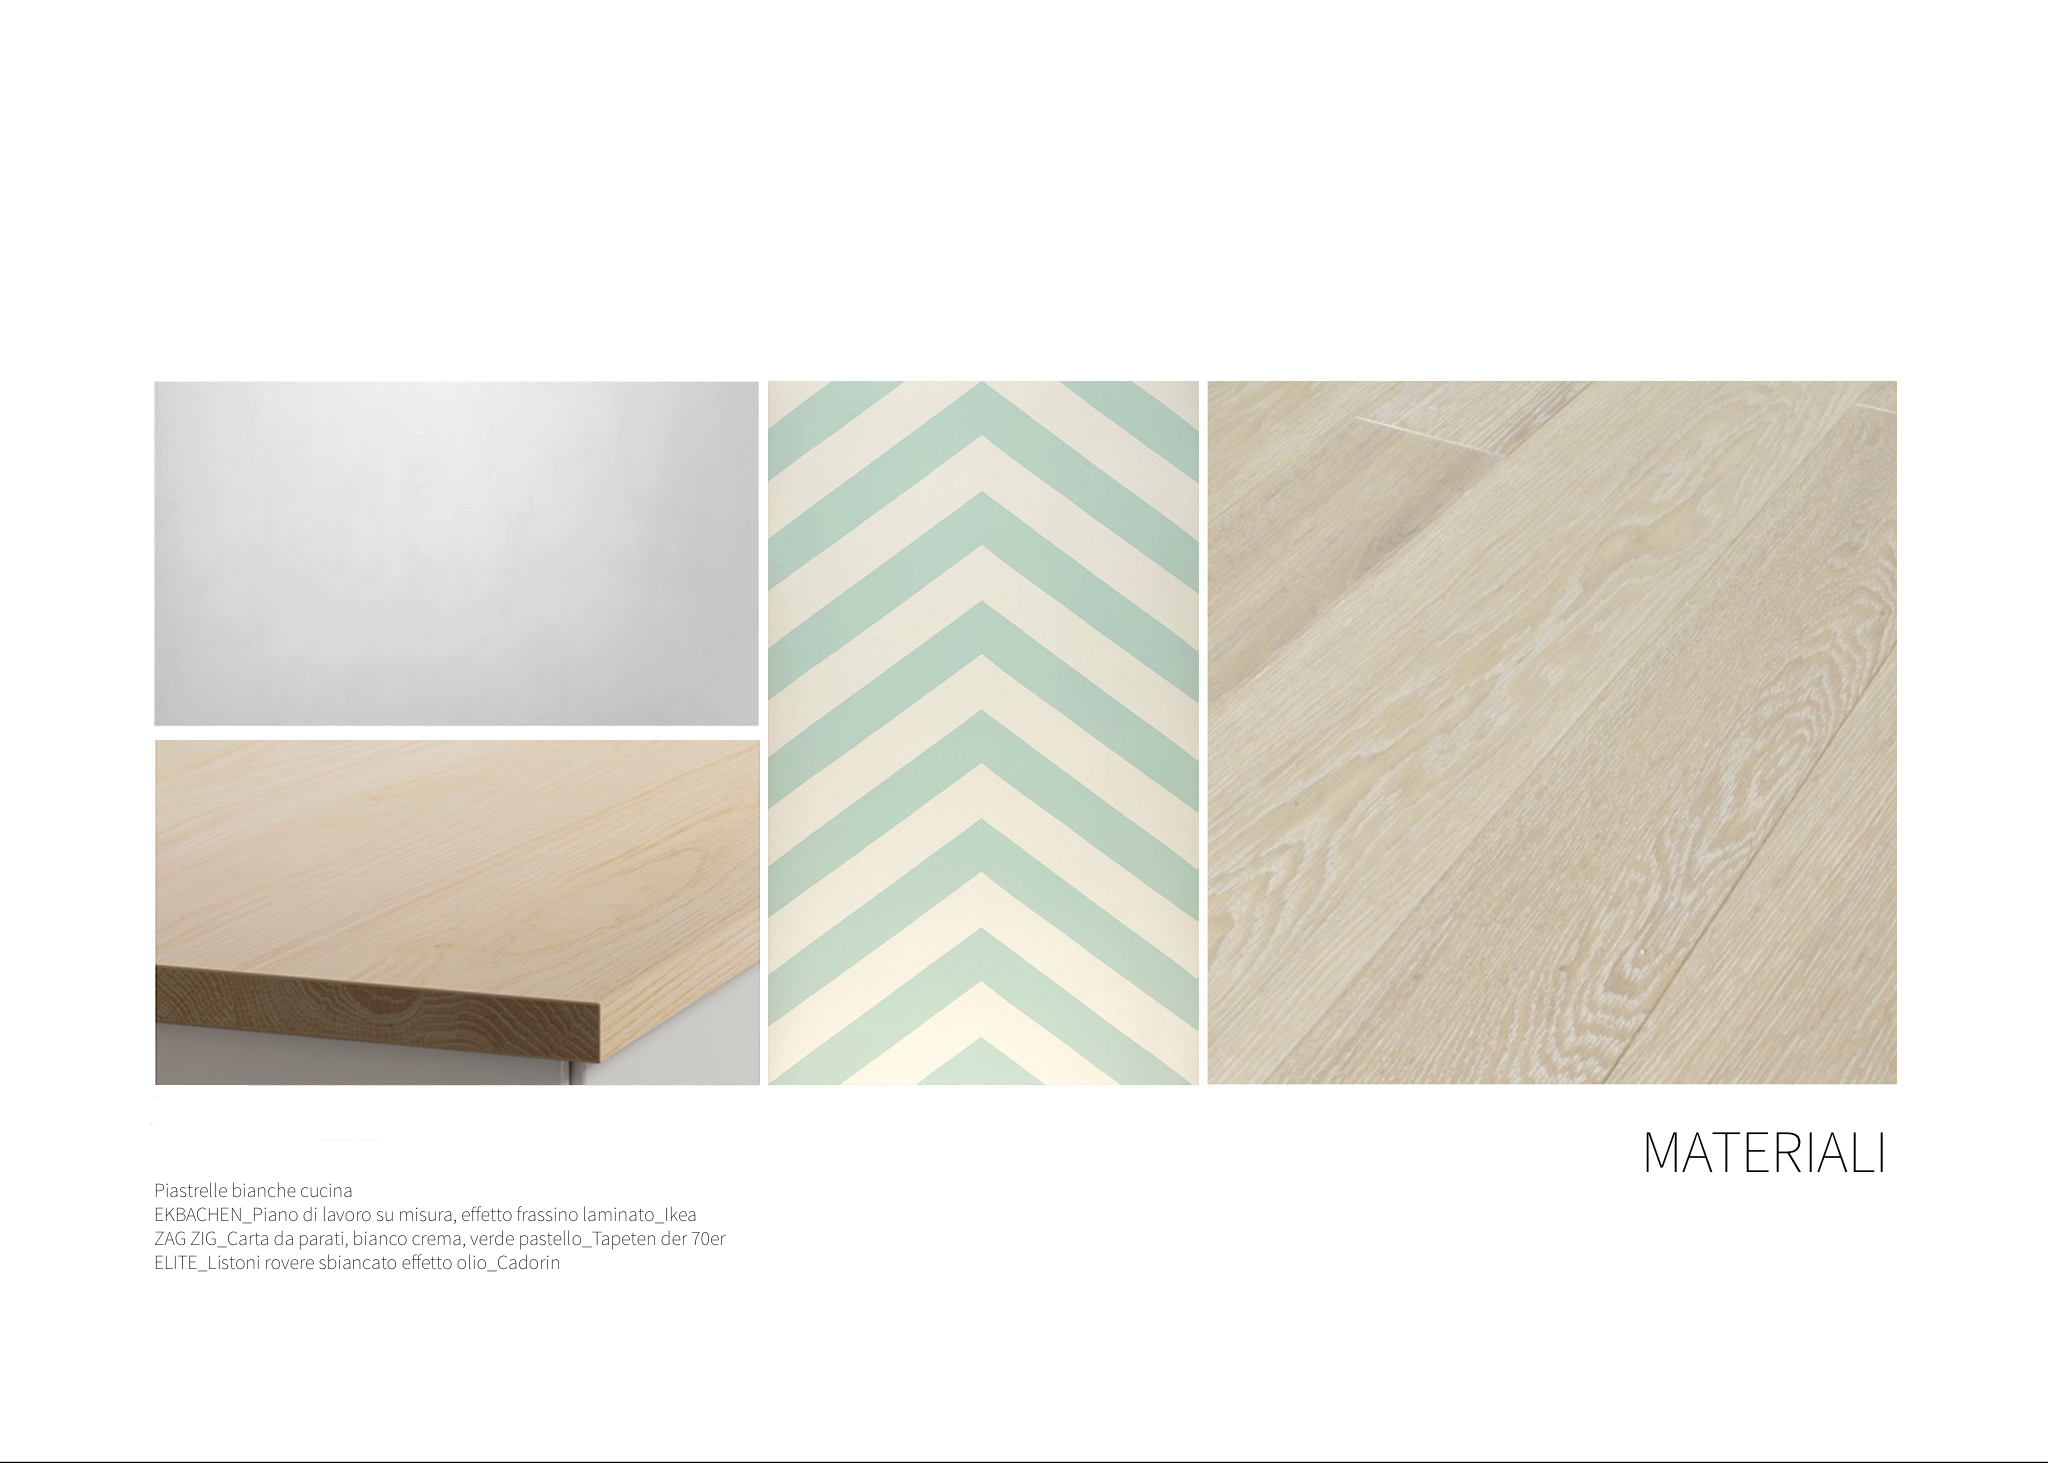
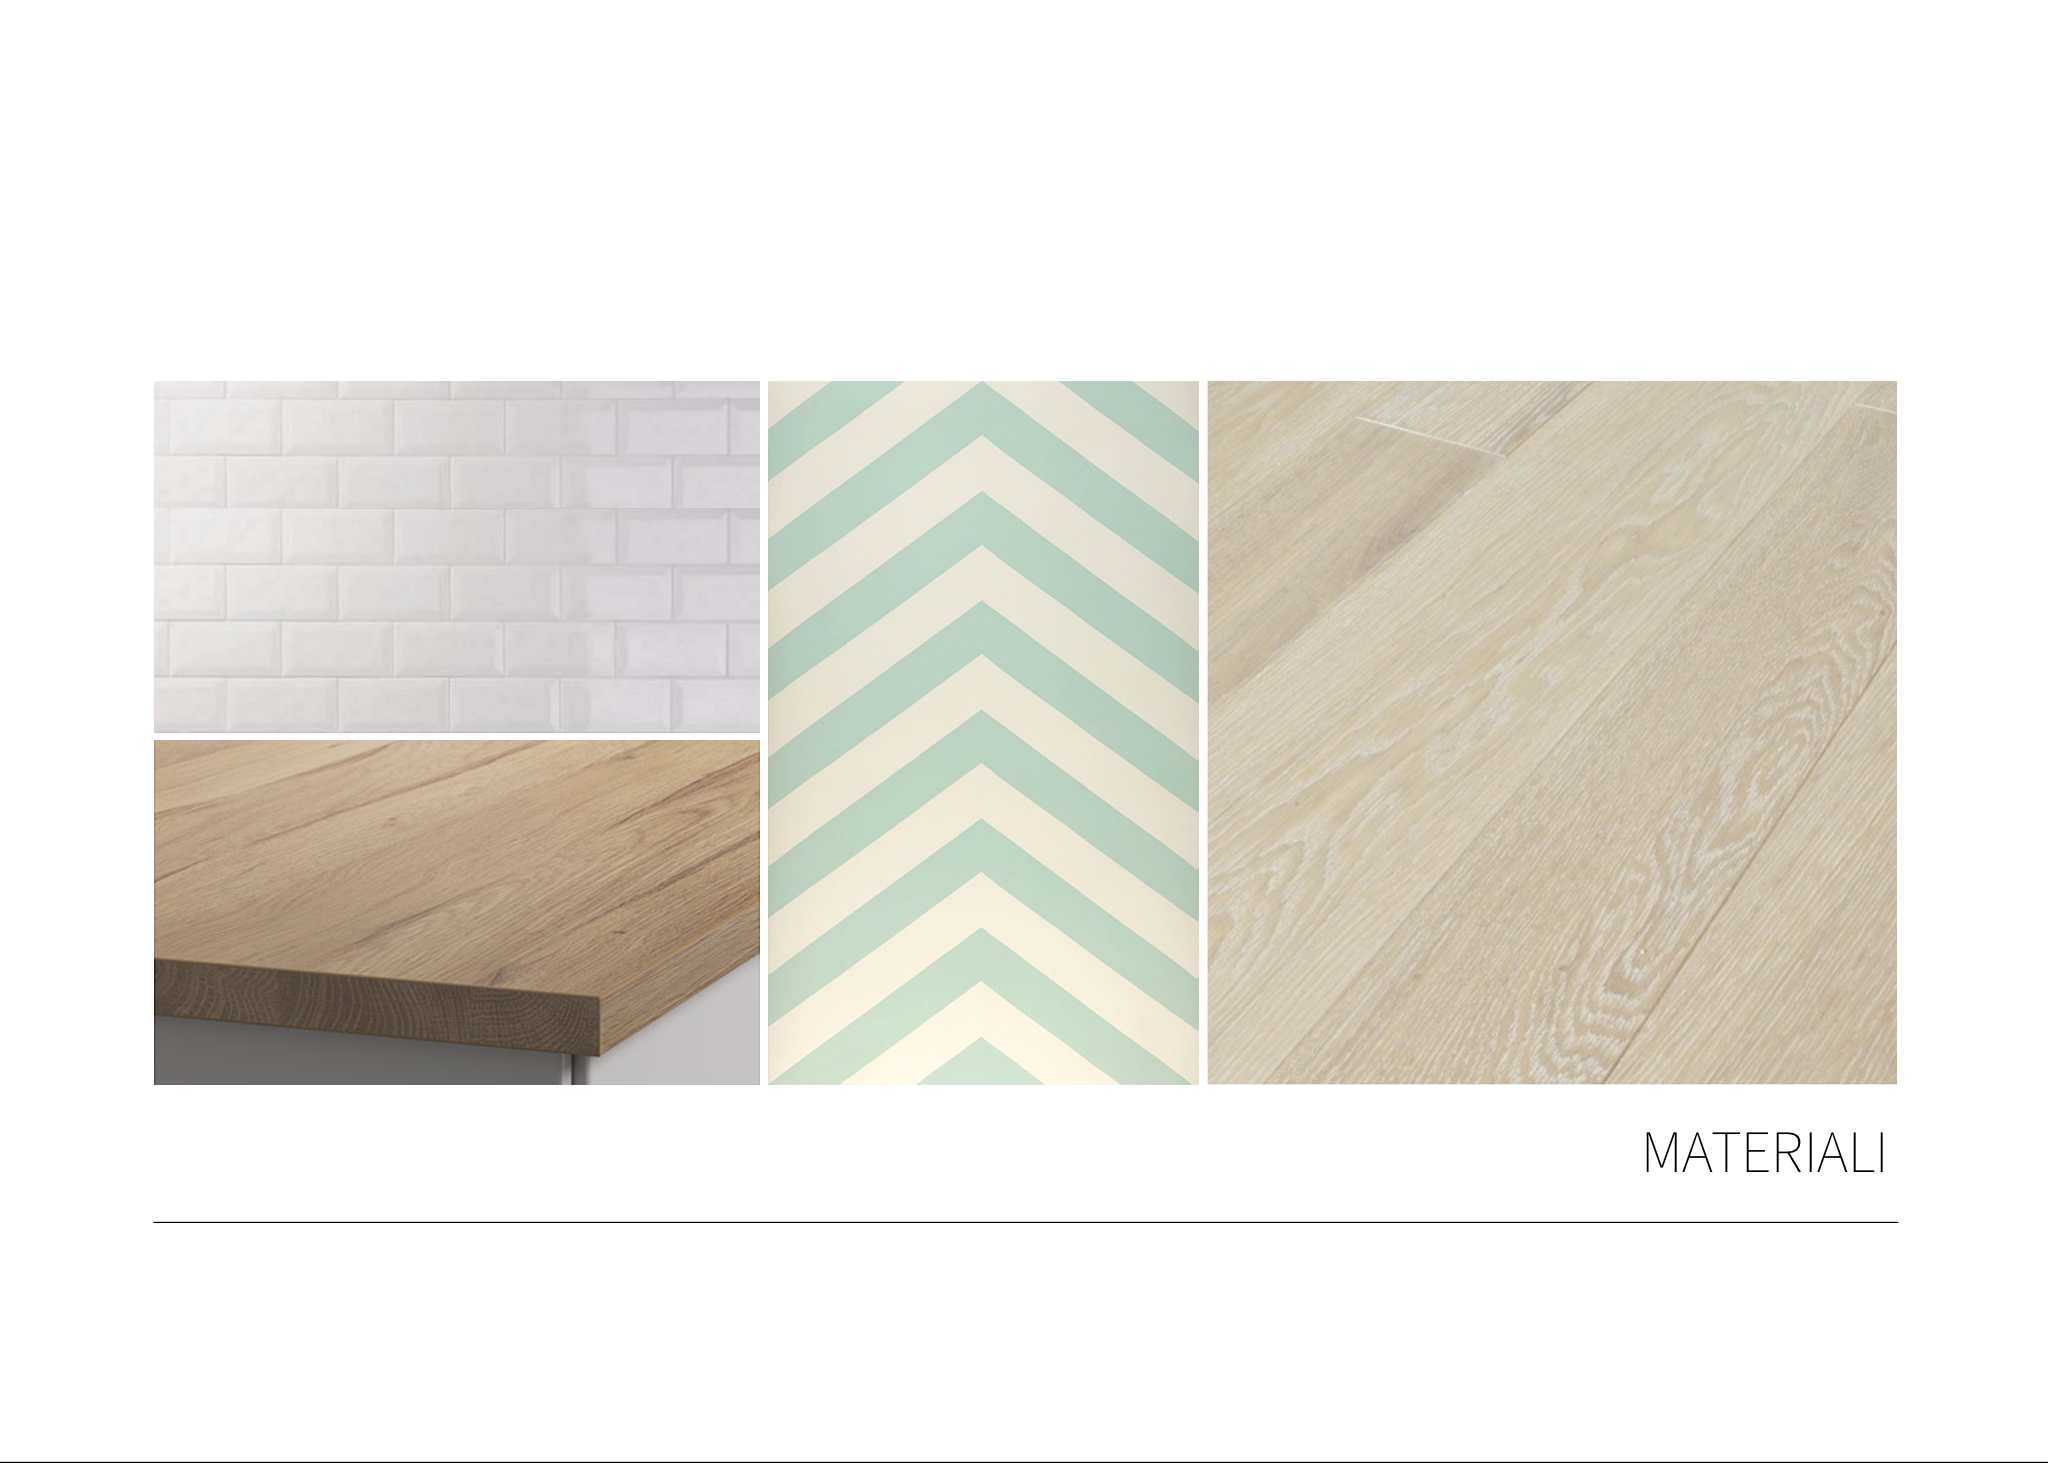
Add material png

Changed region(s): [[0.0625, 0.3383, 0.375, 0.769], [0.0625, 0.7997, 0.3438, 0.8612], [0.1875, 0.2461, 0.2812, 0.3691]]

diff --git a/projects/QM-S_1/QM-S_1_CUCINA/QM-S_1_CUCINA.html b/projects/QM-S_1/QM-S_1_CUCINA/QM-S_1_CUCINA.html
@@ -12,15 +12,15 @@
       <h2>Ambiente Cucina</h2>
       <h3>Lorem ipsum dolor sit amet, consectetuer adipiscing elit. Aenean commodo ligula eget dolor. Aenean massa. Cum sociis natoque penatibus et magnis dis parturient montes, nascetur ridiculus mus. Donec quam felis, ultricies nec, pellentesque eu, pretium quis, sem. Nulla consequat massa quis enim. Donec pede justo, fringilla vel, aliquet nec, vulputate eget, arcu. In enim justo, rhoncus ut, imperdiet a, venenatis vitae, justo. Nullam dictum felis eu pede mollis pretium. Integer tincidunt. Cras dapibus. Vivamus elementum semper nisi. Aenean vulputate eleifend tellus. Aenean leo ligula, porttitor eu, consequat vitae, eleifend ac, enim. Aliquam lorem ante, dapibus in, viverra quis, feugiat a, tellus. Phasellus viverra nulla ut metus varius laoreet. Quisque rutrum. Aenean imperdiet. Etiam ultricies nisi vel augue. Curabitur ullamcorper ultricies nisi. Nam eget dui. Etiam rhoncus. Maecenas tempus, tellus eget condimentum rhoncus, sem quam semper libero, sit amet adipiscing sem neque sed ipsum. Maecenas nec odio et ante tincidunt tempus.
 
-        <a href="img/MATERIALI.png"><img src="img/MATERIALI.png" alt="Prove texture, links to larger version of the image"></a>
+        <a href="img/MATERIALI.png"><img src="img/MATERIALI16_9.png" alt="MATERIALI"></a>
 
-      <ul>
-        <li><span>Home</span></li>
-        <li><a href="get the link">Get started</a></li>
-        <li><a href="#">Photos</a></li>
+
+        <li><a href="http://www.ikea.com/it/it/catalog/products/10345469/">EKBACKEN</a>_Piano di lavoro su misura, effetto frassino laminato_Ikea</li>
+        <li><a href="http://www.cartadaparatideglianni70.com/motivi-di-carta-da-parati/carta-da-parati-geometrica/2112/zag-zig?c=282#&gid=1&pid=1">Zag Zig</a> _Carta da parati geometrica, bianco crema e verde pastello_Carta da parati degli anni 70.</li>
         <li><a href="#">Gear</a></li>
         <li><a href="#">Forum</a></li>
-      </ul>
+
+
 
       <h2>Welcome</h2>
 
